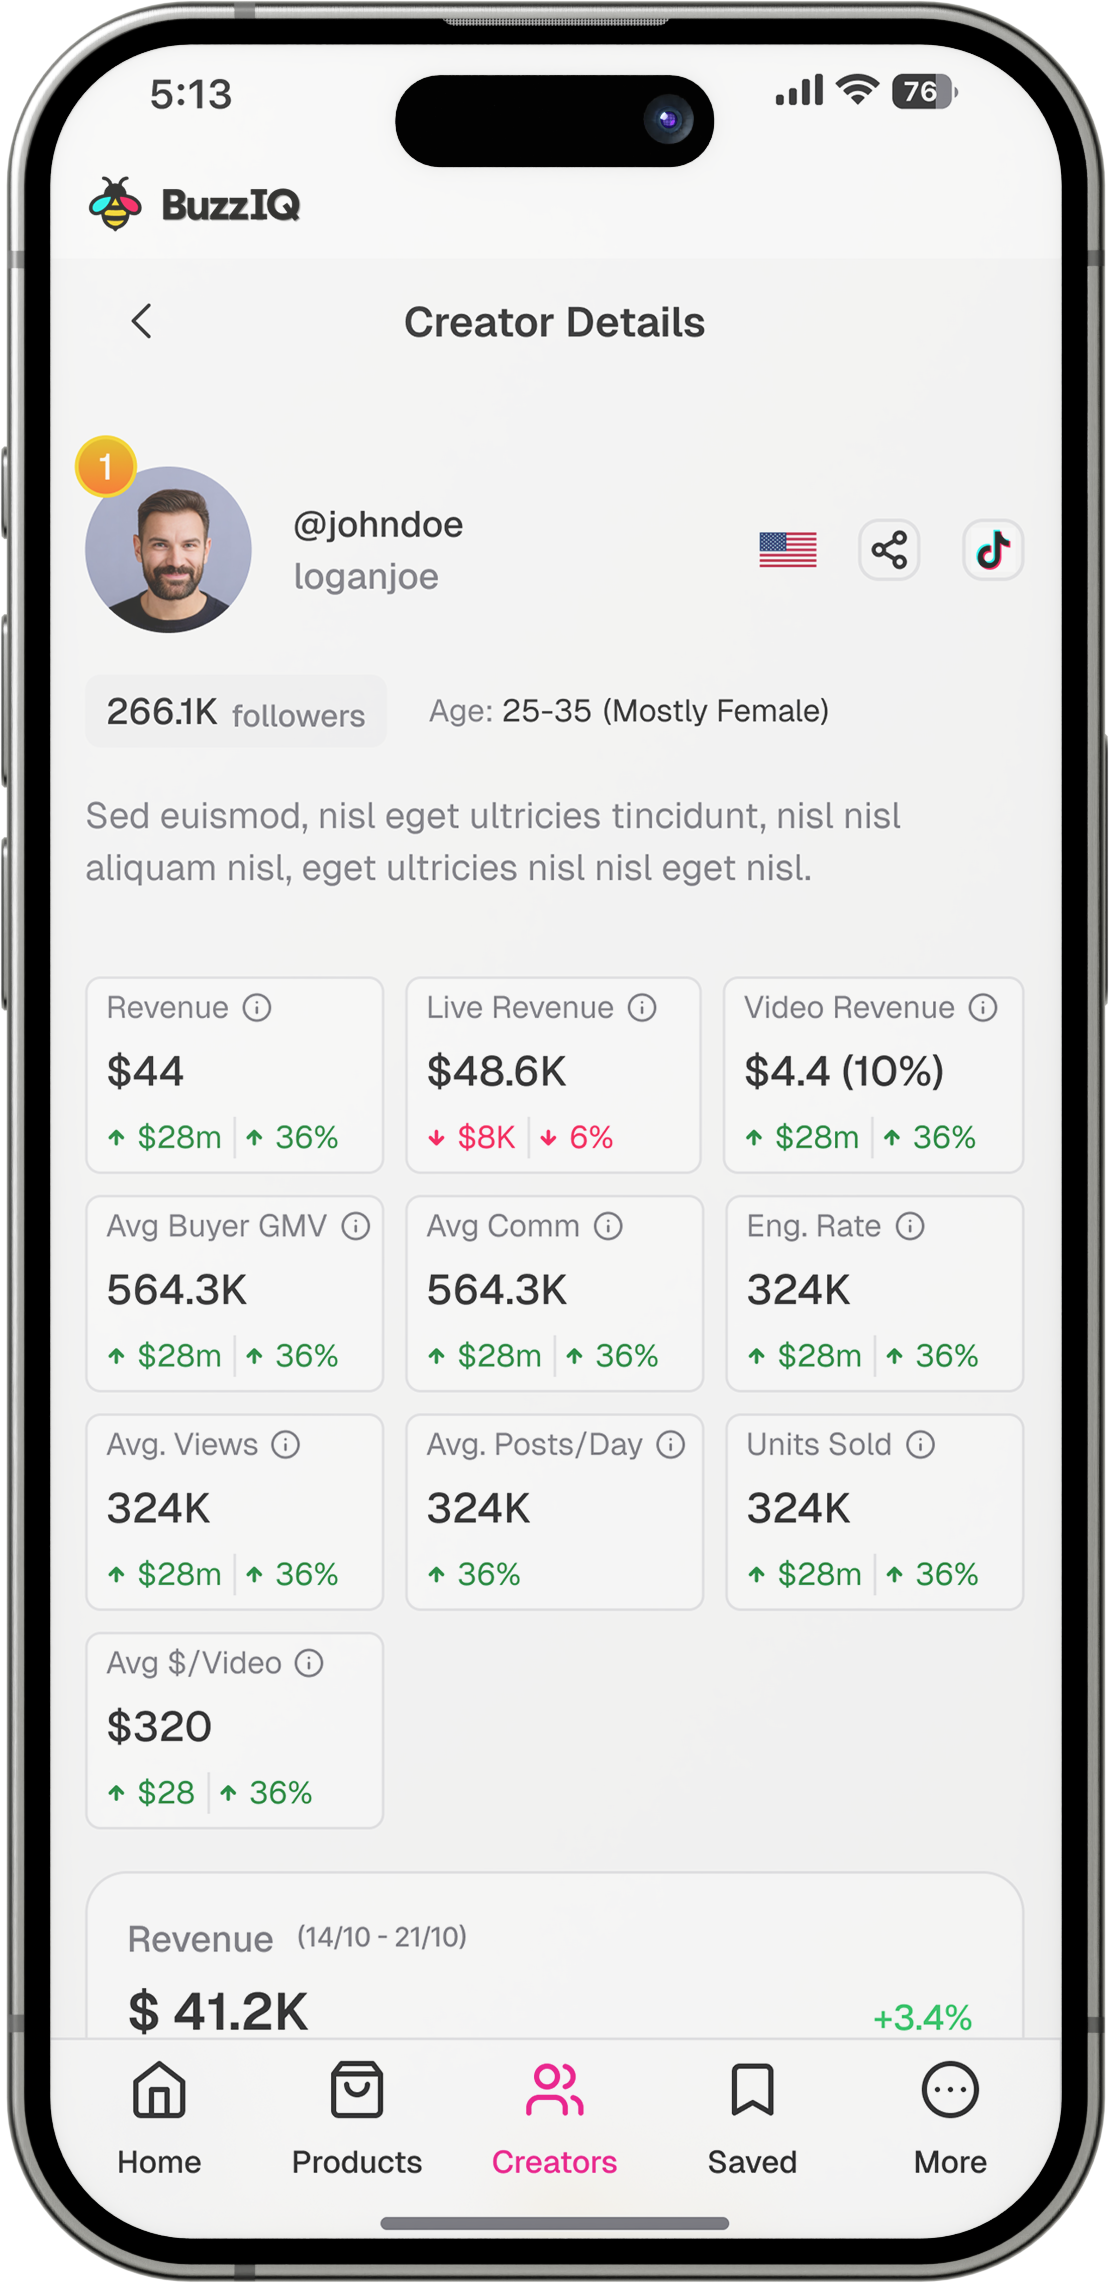
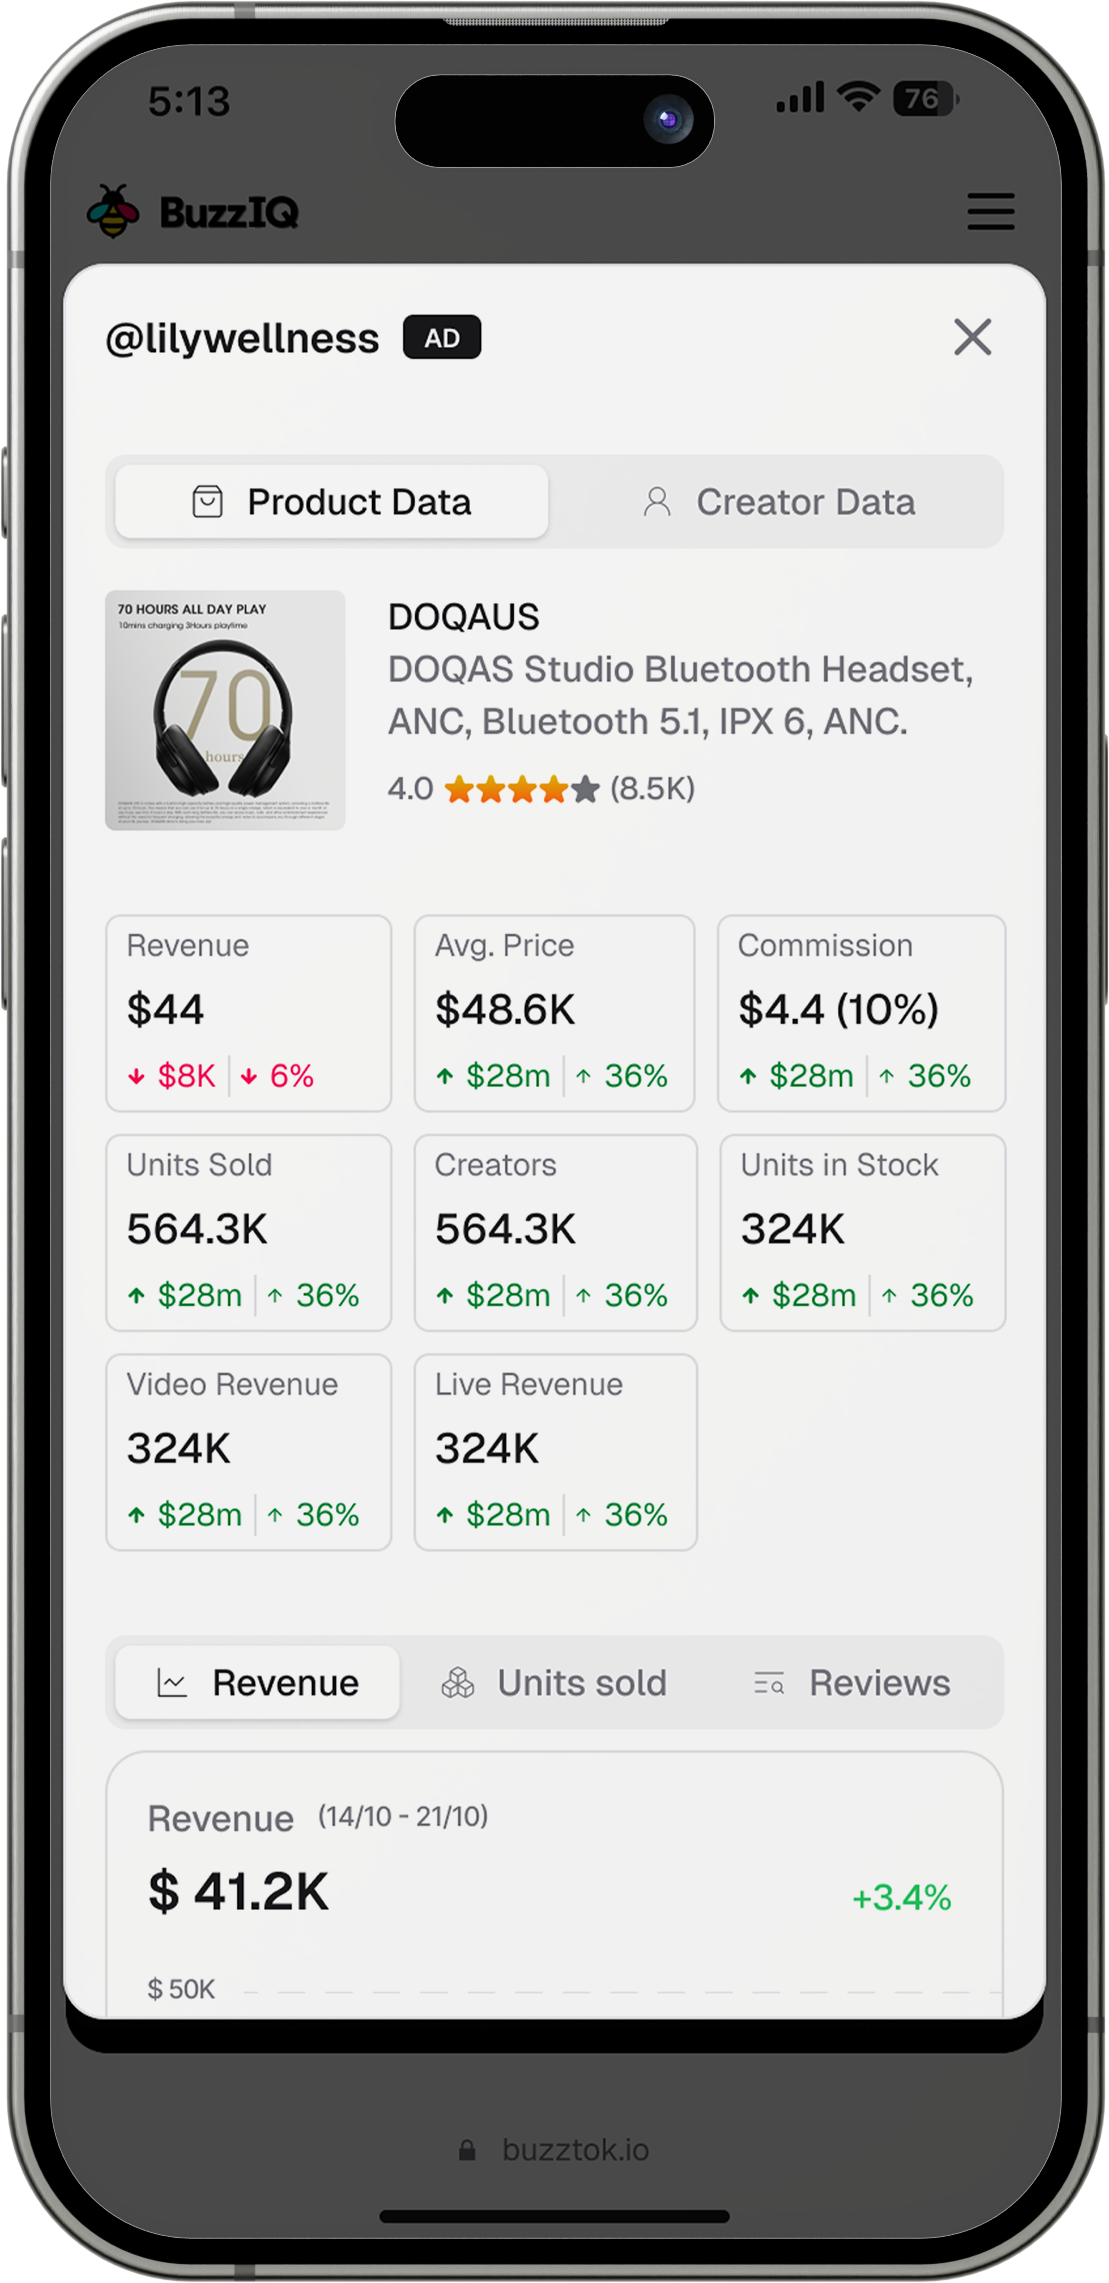
Swap in sharper BuzzIQ/Danadana thumbnails and case-study hero images, and update image 03's caption to match its actual Buzz Stats content

diff --git a/BuzzIQ.dc.html b/BuzzIQ.dc.html
@@ -194,15 +194,15 @@
     <div style="display: flex; flex-wrap: wrap; justify-content: center; gap: 56px; margin: 96px 0 0;">
       <figure style="margin: 0; display: flex; flex-direction: column; gap: 12px; flex: 1 1 200px; max-width: 260px;">
         <img data-lightbox src="images/buzziq-mockup-homepage.png" alt="BuzzIQ home feed ranking videos by view velocity" loading="lazy" style="width: 100%; height: auto; display: block;">
-        <figcaption class="case-figcaption">01 — The home feed, ranking videos by view velocity with BuzzAI and Buzz Stats actions on each card.</figcaption>
+        <figcaption class="case-figcaption">01 — The home feed, ranking videos by view velocity, with a BuzzAI and a Buzz Stats action on each card.</figcaption>
       </figure>
       <figure style="margin: 0; display: flex; flex-direction: column; gap: 12px; flex: 1 1 200px; max-width: 260px;">
         <img data-lightbox src="images/buzziq-mockup-buzzai.png" alt="BuzzAI popup with transcript, hooks, script, captions, hashtags, and CTAs" loading="lazy" style="width: 100%; height: auto; display: block;">
         <figcaption class="case-figcaption">02 — The BuzzAI popup, opened from a video card without leaving the feed.</figcaption>
       </figure>
       <figure style="margin: 0; display: flex; flex-direction: column; gap: 12px; flex: 1 1 200px; max-width: 260px;">
-        <img data-lightbox src="images/buzziq-mockup-creator-details.png" alt="BuzzIQ creator details screen with follower demographics and revenue" loading="lazy" style="width: 100%; height: auto; display: block;">
-        <figcaption class="case-figcaption">03 — Creator details, covering follower demographics, engagement, and revenue.</figcaption>
+        <img data-lightbox src="images/buzziq-mockup-creator-details.png" alt="Buzz Stats popup showing quick creator and product data for the video" loading="lazy" style="width: 100%; height: auto; display: block;">
+        <figcaption class="case-figcaption">03 — The Buzz Stats popup, opened from the same card to check the creator and product being promoted, closing back into the video before deciding whether to keep watching or skip ahead.</figcaption>
       </figure>
     </div>
 
